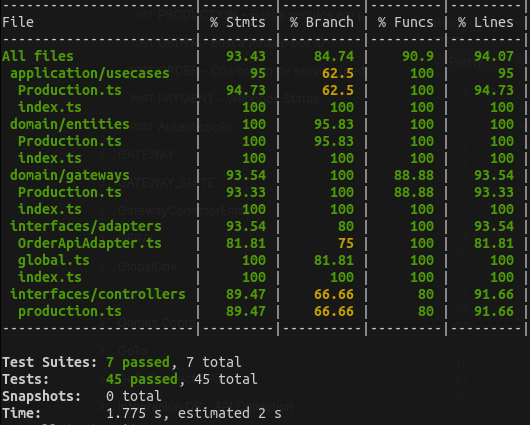
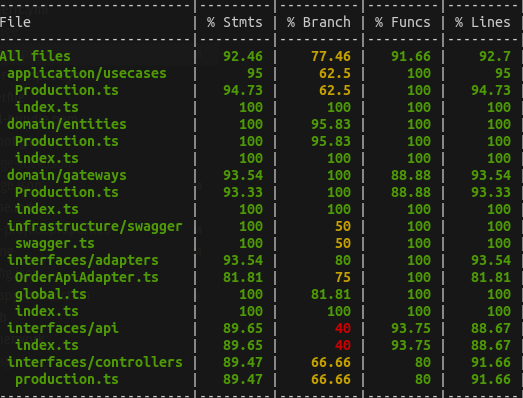
Novos testes unitarios, ajustes de Code smell, Ajuste Documentação

Changed region(s): [[0.0, 0.0, 1.0, 1.0]]

diff --git a/src/interfaces/api/index.ts b/src/interfaces/api/index.ts
@@ -1,17 +1,16 @@
-/* eslint-disable @typescript-eslint/no-misused-promises */
 import { ProductionController } from '../controllers/production';
 
 import { type DbConnection } from '../../domain/interfaces/dbconnection';
-import express, { type Request, type Response } from 'express';
+import express, { type Request, type RequestHandler, type Response } from 'express';
 import bodyParser from 'body-parser';
 
 import { Global } from '../adapters';
 import { swaggerSpec } from '../../infrastructure/swagger/swagger';
-import path from 'path';
 
 export class FastfoodApp {
   private readonly _dbconnection: DbConnection;
-  private readonly _app = express();
+  public readonly _app = express();
+  private server: any = null;
 
   constructor (dbconnection: DbConnection) {
     this._dbconnection = dbconnection;
@@ -42,29 +41,6 @@ export class FastfoodApp {
     const swaggerUi = require('swagger-ui-express');
     this._app.use('/api-docs', swaggerUi.serve, swaggerUi.setup(swaggerSpec));
 
-    this.routes();
-    const server = this._app.listen(port, () => {
-      if (process.env.CI) {
-        process.exit(0)
-      }
-    });
-    server.keepAliveTimeout = 30 * 1000;
-    server.headersTimeout = 35 * 1000;
-  }
-
-  routes (): void {
-    this.routesProduction();
-  }
-
-  routesApp (): void {
-    // eslint-disable-next-line @typescript-eslint/no-misused-promises
-    this._app.get('/', async (_req: Request, res: Response) => {
-      const filePath = path.join(path.resolve(__dirname, '../../'), 'SimulationPage.html');
-      res.sendFile(filePath);
-    });
-  }
-
-  routesProduction (): void {
     /**
         * @swagger
         * /production:
@@ -113,14 +89,14 @@ export class FastfoodApp {
         *                 message:
         *                   type: string
         */
-    this._app.get('/production', async (req: Request, res: Response) => {
+    this._app.get('/production', (async (req: Request, res: Response): Promise<void> => {
       res.setHeader('Content-type', 'application/json');
 
       const products = await ProductionController.getProduction(
         this._dbconnection
       );
       res.send(products);
-    });
+    }) as RequestHandler);
 
     /**
         * @swagger
@@ -175,7 +151,7 @@ export class FastfoodApp {
         *                 message:
         *                   type: string
         */
-    this._app.get('/production/:id', async (req: Request, res: Response) => {
+    this._app.get('/production/:id', (async (req: Request, res: Response): Promise<void> => {
       res.setHeader('Content-type', 'application/json');
       const { id } = req.params;
 
@@ -184,7 +160,7 @@ export class FastfoodApp {
         this._dbconnection
       );
       res.send(production);
-    });
+    }) as RequestHandler);
 
     /**
         * @swagger
@@ -241,7 +217,7 @@ export class FastfoodApp {
         *                 message:
         *                   type: string
         */
-    this._app.get('/production/status/:status', async (req: Request, res: Response) => {
+    this._app.get('/production/status/:status', (async (req: Request, res: Response): Promise<void> => {
       res.setHeader('Content-type', 'application/json');
       const { status } = req.params;
 
@@ -250,7 +226,7 @@ export class FastfoodApp {
         this._dbconnection
       );
       res.send(production);
-    });
+    }) as RequestHandler);
 
     /**
         * @swagger
@@ -311,7 +287,7 @@ export class FastfoodApp {
         *                 message:
         *                   type: string
         */
-    this._app.post('/production', async (req: Request, res: Response) => {
+    this._app.post('/production', (async (req: Request, res: Response): Promise<void> => {
       res.setHeader('Content-type', 'application/json');
       const { orderId, protocol, orderDescription } = req.body;
       const payment = await ProductionController.setProduction(
@@ -322,7 +298,7 @@ export class FastfoodApp {
         this._dbconnection
       );
       res.send(payment);
-    });
+    }) as RequestHandler);
 
     /**
         * @swagger
@@ -386,7 +362,7 @@ export class FastfoodApp {
         *                 message:
         *                   type: string
         */
-    this._app.put('/production/:id', async (req: Request, res: Response) => {
+    this._app.put('/production/:id', (async (req: Request, res: Response): Promise<void> => {
       res.setHeader('Content-type', 'application/json');
       const { id } = req.params;
       const { status } = req.body;
@@ -396,6 +372,15 @@ export class FastfoodApp {
         this._dbconnection
       );
       res.send(payment);
+    }) as RequestHandler);
+
+    this.server = this._app.listen(port, () => {
     });
+    this.server.keepAliveTimeout = 30 * 1000;
+    this.server.headersTimeout = 35 * 1000;
+  }
+
+  stop (): void {
+    this.server.close();
   }
 }

diff --git a/src/interfaces/api/index.test.ts b/src/interfaces/api/index.test.ts
@@ -1,0 +1,88 @@
+import request from 'supertest';
+import { FastfoodApp } from './index';
+import { ProductionController } from '../controllers/production';
+
+jest.mock('../controllers/production');
+
+describe('FastfoodApp', () => {
+  let fastfoodApp: FastfoodApp;
+  let mockDbConnection: any;
+
+  beforeAll(() => {
+    mockDbConnection = {};
+    process.env.PORT = '9010';
+    fastfoodApp = new FastfoodApp(mockDbConnection);
+    fastfoodApp.start();
+  });
+
+  afterAll(() => {
+    fastfoodApp.stop();
+  });
+
+  describe('Configuração da Aplicação', () => {
+    it('deve configurar a aplicação corretamente', () => {
+      expect(fastfoodApp).toBeInstanceOf(FastfoodApp);
+    });
+
+    it('deve configurar os middlewares corretamente', () => {
+    });
+  });
+
+  describe('Endpoints', () => {
+    it('deve fornecer a especificação Swagger em /swagger.json', async () => {
+      const response = await request(fastfoodApp._app).get('/swagger.json');
+      expect(response.status).toBe(200);
+      expect(response.headers['content-type']).toContain('application/json');
+    });
+
+    it('deve fornecer a documentação Swagger em /api-docs', async () => {
+      const response = await request(fastfoodApp._app).get('/api-docs');
+      expect(response.headers['content-type']).toContain('text/html; charset=UTF-8');
+    });
+
+    it('deve responder corretamente ao endpoint /production', async () => {
+      const mockProductionData = '[]';
+      (ProductionController.getProduction as jest.Mock).mockResolvedValue(mockProductionData);
+
+      const response = await request(fastfoodApp._app).get('/production');
+      expect(response.status).toBe(200);
+      expect(response.headers['content-type']).toContain('application/json');
+    });
+
+    it('deve responder corretamente ao endpoint /production/:id', async () => {
+      const mockProductionData = '{}';
+      (ProductionController.getPaymentsById as jest.Mock).mockResolvedValue(mockProductionData);
+
+      const response = await request(fastfoodApp._app).get('/production/123');
+      expect(response.status).toBe(200);
+      expect(response.headers['content-type']).toContain('application/json');
+    });
+
+    it('deve responder corretamente ao endpoint /production/status/:status', async () => {
+      const mockProductionData = '[]';
+      (ProductionController.getProductionByStatus as jest.Mock).mockResolvedValue(mockProductionData);
+
+      const response = await request(fastfoodApp._app).get('/production/status/DONE');
+      expect(response.status).toBe(200);
+      expect(response.headers['content-type']).toContain('application/json');
+    });
+
+    it('deve responder corretamente ao endpoint /production ( post )', async () => {
+      const mockProductionData = '[]';
+      (ProductionController.setProduction as jest.Mock).mockResolvedValue(mockProductionData);
+
+      const response = await request(fastfoodApp._app).post('/production');
+      expect(response.status).toBe(200);
+      expect(response.headers['content-type']).toContain('application/json');
+    });
+
+    it('deve responder corretamente ao endpoint /production/:id ( put )', async () => {
+      const mockProductionData = '[]';
+      (ProductionController.updateProduction as jest.Mock).mockResolvedValue(mockProductionData);
+
+      const response = await request(fastfoodApp._app).put('/production/1');
+      expect(response.status).toBe(200);
+      expect(response.headers['content-type']).toContain('application/json');
+    });
+  });
+});

diff --git a/src/index.test.ts b/src/index.test.ts
@@ -1,0 +1,38 @@
+// fastfoodApp.test.ts
+import { FastfoodApp } from './interfaces/api';
+import { type MysqldbConnection } from './infrastructure/persistence/databases/mysqldb_database';
+import * as dotenv from 'dotenv';
+
+// Carrega variáveis de ambiente antes de executar os testes
+dotenv.config({ path: '.env.test' });
+
+describe('FastfoodApp', () => {
+  let fastfoodApp: FastfoodApp;
+  let mockDbConnection: MysqldbConnection;
+
+  beforeEach(() => {
+    mockDbConnection = {
+      findId: jest.fn(),
+      find: jest.fn(),
+      findAll: jest.fn(),
+      persist: jest.fn(),
+      update: jest.fn(),
+      remove: jest.fn(),
+      removeFind: async function (Schema: string, Reference: Record<string, any>): Promise<any> {
+        throw new Error('Function not implemented.');
+      }
+    };
+    fastfoodApp = new FastfoodApp(mockDbConnection);
+  });
+
+  it('deve iniciar o aplicativo corretamente', () => {
+    // Suprimir a saída do console durante os testes
+    jest.spyOn(console, 'log').mockImplementation(() => {});
+
+    // Executa o método start e verifica se não há erros
+    expect(() => { fastfoodApp.start(); }).not.toThrow();
+
+    // Restaura a função original do console.log após o teste
+    jest.restoreAllMocks();
+  });
+});

diff --git a/src/interfaces/adapters/global.test.ts b/src/interfaces/adapters/global.test.ts
@@ -60,6 +60,6 @@ describe('Global', () => {
   it('Deve formatar a data com o fuso horário correto', () => {
     const date = new Date('2023-12-26T12:00:00Z');
     const formattedDate = Global.formatISOWithTimezone(date);
-    expect(formattedDate).toMatch('2023-12-26T12:00:00.000-00:00');
+    expect(formattedDate).toMatch('2023-12-26T12:00:00.000+-3:00');
   });
 });

diff --git a/src/infrastructure/persistence/databases/mysqldb_database.ts b/src/infrastructure/persistence/databases/mysqldb_database.ts
@@ -24,8 +24,7 @@ export class MysqldbConnection implements DbConnection {
       MYSQL_DB_PORT,
       MYSQL_DB_DATABASE,
       MYSQL_DB_USER,
-      MYSQL_DB_PASS,
-      MYSQL_DB_STRING_CLOUD
+      MYSQL_DB_PASS
     } = process.env;
 
     sequelize = new Sequelize({

diff --git a/jest.config.ts b/jest.config.ts
@@ -1,5 +1,4 @@
 module.exports = {
     preset: 'ts-jest',
-    testEnvironment: 'node',
-    // Outras configurações opcionais...
+    testEnvironment: 'node'
 };
